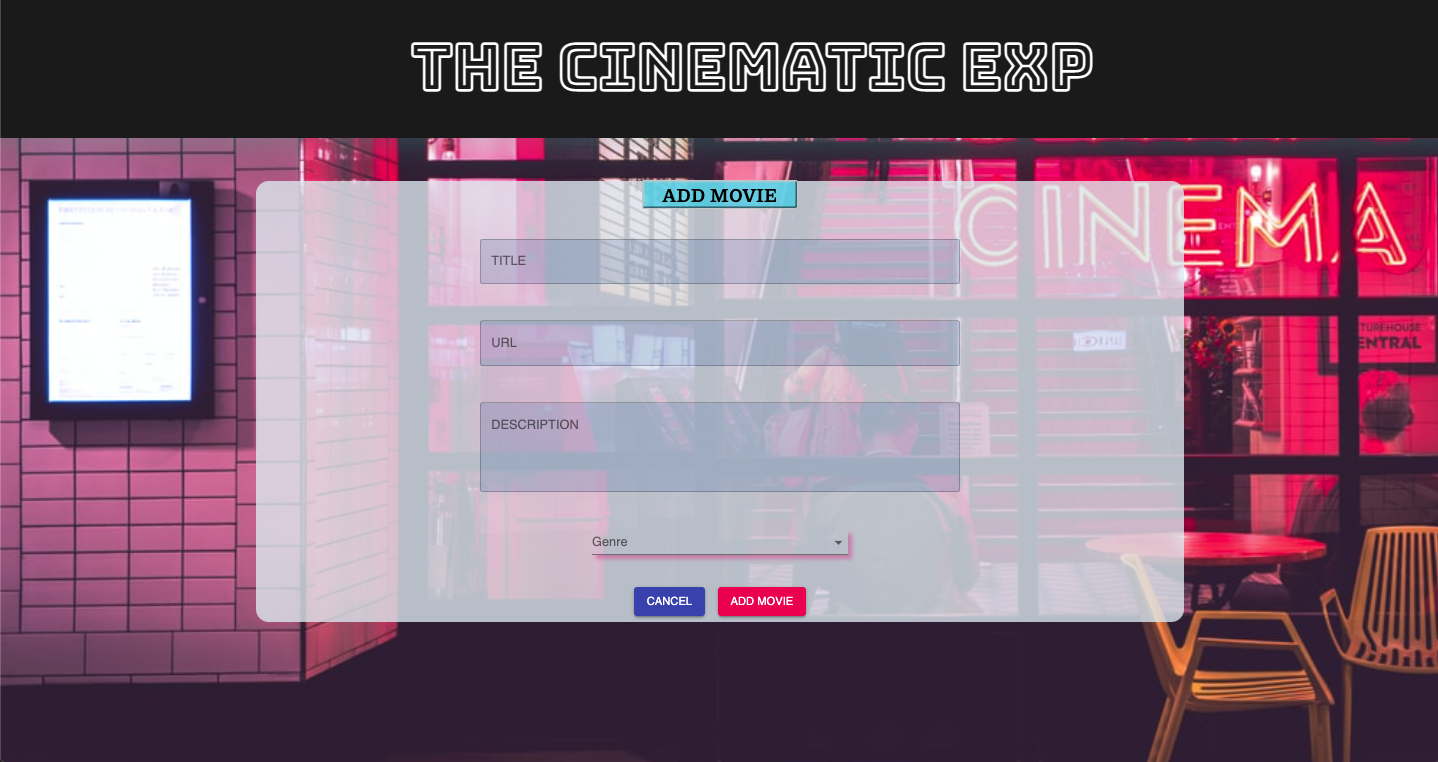
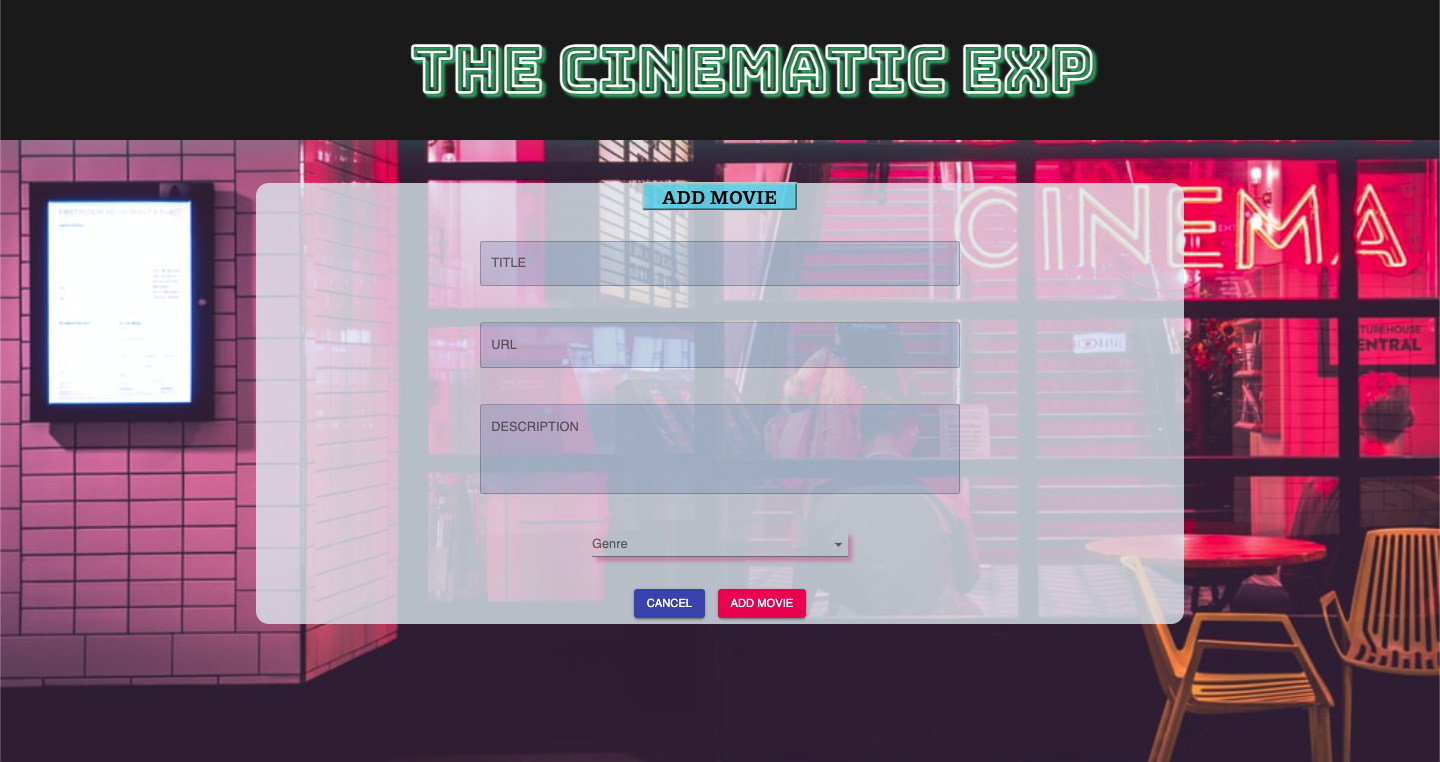
Update ADD MOVIE button to have hover css styling

diff --git a/src/components/App/App.css b/src/components/App/App.css
@@ -81,12 +81,14 @@ img{
   background-color: rgb(28, 28, 28);
   padding: 2.5rem;
   margin: 0;
-  box-shadow: 0 0 50px rgba(6, 235, 201, 0.297);
+  box-shadow: 10px 10px 10px rgba(222, 23, 240, 0.283);
+
   overflow: hidden;
   display: block;
   position: fixed;
   width: 100%;
   text-shadow: 4px 4px 4px rgba(4, 238, 148, 0.927);
+
 }
 
 
@@ -100,13 +102,13 @@ p{
 }
 
 .add-movie-btn{
-  background-color: rgba(5, 210, 233, 0.687);
+  background-color: rgba(5, 210, 233, 0.571);
   border-radius: 0.2rem;
   padding-right: 1.5rem;
   padding-left: 1.5rem;
   color: black;
   box-shadow: inset -2px -2px rgba(0, 0, 0, 0.502),
-  inset 2px 2px rgba(210, 206, 206, 0.481);
+  inset 2px 2px rgba(210, 206, 206, 0.345);
 
   /* https://stackoverflow.com/questions/38377062/
   how-to-make-html-button-look-pressed-in-using-css */
@@ -114,6 +116,13 @@ p{
     border: 1px solid #ccc;
     cursor: pointer;
 
+}
+
+/* on hover, "button" will look pressed */
+/* https://www.w3schools.com/cssref/sel_hover.asp */
+.add-movie-btn:hover {
+box-shadow: inset 2px 2px rgba(97, 96, 96, 0.892),
+inset -2px -2px rgba(0, 0, 0, 0.29);
 }
 
 

diff --git a/src/components/Home/Home.jsx b/src/components/Home/Home.jsx
@@ -23,7 +23,7 @@ class Home extends Component {
         return (
             <>
                 <h2 className="instruction-text">Please click on one of the following movies for further details.</h2>
-                <h2 className="instruction-text, h2-margin">Also, because 2020...free popcorn for everyone.</h2>
+                {/* <h2 className="instruction-text, h2-margin">Also, because 2020...free popcorn for everyone.</h2> */}
                 {/* Mapping out our movies reducer, which has all of our 
                 pre-set movies from our database */}
                 {movies.map ((movie, i) => {

diff --git a/src/components/Home/Home.css b/src/components/Home/Home.css
@@ -16,8 +16,9 @@ p{
 }
 
 .instruction-text{
-    color: rgb(24, 24, 24);
-    text-shadow: 2px 2px 2px rgb(105, 190, 255);
+    color: rgb(99, 98, 98);
+    /* Enjoyed text-shadow, but too much color is going on so commenting out for now */
+    /* text-shadow: 2px 2px 2px rgba(235, 105, 255, 0.482); */
 
 }
 
@@ -27,6 +28,7 @@ p{
     margin-top: 0;
     color: rgb(24, 24, 24);
     font-size: 1.2rem;
+    /* color scheme is too busy on landing page, commenting text-shadow out */
     /* text-shadow: 2px 2px 2px rgb(243, 255, 105); */
 }
 

diff --git a/src/components/Details/Details.jsx b/src/components/Details/Details.jsx
@@ -53,7 +53,7 @@ getdetailInfo = (details) => {
             </img>
             <h4>
             {/* INCLUDE GENRE */}
-            Genre: 
+            Genre: {details.genre}
             </h4>
             <p>
                 {details.description}

diff --git a/README.md b/README.md
@@ -23,9 +23,9 @@ Create an application where user can select movie from movie list upon opening l
 
 ![Landing Page](./Screenshots/landingpage.png)
 
-* Details View
+<!-- * Details View
 
-![Details View](./Screenshots/DetailsView.png)
+![Details View](./Screenshots/DetailsView.png) -->
 
 * Add Movie View
 
